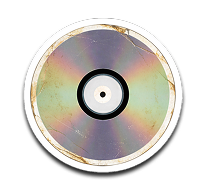
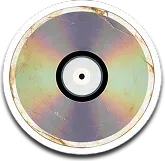
Update mobile image assets and adjust styles for improved responsiveness. Modified dimensions for mobile navigation items and enhanced CSS for MusicPage and VideosPage, including transitions and layout adjustments. Added new background image for VideosPage and refined mobile navigation overlay.

diff --git a/src/pages/MusicPage.css b/src/pages/MusicPage.css
@@ -14,6 +14,7 @@
   width: 100%;
   height: auto;
   display: block;
+  transition: width 0.4s ease, transform 0.4s ease;
 }
 
 /* Content overlays on the top portion of the image */
@@ -27,10 +28,12 @@
   align-items: center;
   padding-top: 10%;
   gap: 1vw;
+  transition: padding-top 0.4s ease, gap 0.4s ease;
 }
 
 .music-hero-artwork {
   width: var(--music-artwork-width);
+  transition: width 0.4s ease;
 }
 
 .music-hero-artwork img {
@@ -41,7 +44,7 @@
 
 .music-hero-title {
   font-family: 'Roboto Mono', monospace;
-  font-size: max(0.6rem, 1.2vw);
+  font-size: max(0.75rem, 1.4vw);
   font-weight: 700;
   letter-spacing: 0.15em;
   color: #fff;
@@ -52,7 +55,7 @@
 
 .music-hero-description {
   font-family: 'Roboto Mono', monospace;
-  font-size: max(0.5rem, 0.9vw);
+  font-size: max(0.65rem, 1.1vw);
   font-weight: 500;
   letter-spacing: 0.12em;
   line-height: 1.6;
@@ -66,7 +69,7 @@
   font-family: 'Roboto Mono', monospace;
   display: inline-block;
   padding: 0.5vw 2.8vw;
-  font-size: max(0.5rem, 0.95vw);
+  font-size: max(0.65rem, 1.1vw);
   font-weight: 700;
   letter-spacing: 0.1em;
   text-decoration: none;
@@ -103,6 +106,7 @@
   align-items: center;
   gap: 1vw;
   width: var(--music-artwork-width);
+  transition: width 0.4s ease, gap 0.4s ease;
 }
 
 .single-artwork img {
@@ -113,7 +117,7 @@
 
 .single-title {
   font-family: 'Roboto Mono', monospace;
-  font-size: max(0.6rem, 1.2vw);
+  font-size: max(0.75rem, 1.4vw);
   font-weight: 700;
   letter-spacing: 0.15em;
   color: #fff;
@@ -124,7 +128,7 @@
 
 .single-description {
   font-family: 'Roboto Mono', monospace;
-  font-size: max(0.5rem, 0.9vw);
+  font-size: max(0.65rem, 1.1vw);
   font-weight: 500;
   letter-spacing: 0.12em;
   line-height: 1.6;
@@ -137,7 +141,7 @@
   font-family: 'Roboto Mono', monospace;
   display: inline-block;
   padding: 0.5vw 2.8vw;
-  font-size: max(0.5rem, 0.95vw);
+  font-size: max(0.65rem, 1.1vw);
   font-weight: 700;
   letter-spacing: 0.1em;
   text-decoration: none;
@@ -172,8 +176,21 @@
 /* ── Responsive ── */
 
 @media (max-width: 768px) {
+  :root {
+    --music-artwork-width: 60vw;
+  }
+
+  .music-hero-bg {
+    width: 270%;
+    max-width: none;
+    position: relative;
+    left: 50%;
+    transform: translateX(-42%);
+  }
+
   .music-hero-content {
-    padding-top: 10%;
+    padding-top: 22%;
+    gap: 2.5vw;
   }
 
   .music-hero-description {

diff --git a/src/components/NavMenu.jsx b/src/components/NavMenu.jsx
@@ -3,11 +3,11 @@ import { Link, useLocation } from 'react-router-dom'
 import './NavMenu.css'
 
 const MOBILE_MENU_ITEMS = [
-  { label: 'Music', link: '/music', image: '/mobile/mobile_disc 1.webp', width: 209, height: 196 },
-  { label: 'Merch', link: '/merch', image: '/mobile/mobile_computer 1.webp', width: 375, height: 251 },
-  { label: 'Tour', link: '/tour', image: '/mobile/mobile_globe 1.webp', width: 208, height: 204 },
-  { label: 'Videos', link: '/videos', image: '/mobile/mobile_vhs 1.webp', width: 249, height: 178 },
-  { label: 'About', link: '/about', image: '/mobile/mobile_phone 1.webp', width: 361, height: 214 },
+  { label: 'Music', link: '/music', image: '/mobile/mobile_disc 1.webp', width: 165, height: 161 },
+  { label: 'Merch', link: '/merch', image: '/mobile/mobile_computer 1.webp', width: 213, height: 214 },
+  { label: 'Tour', link: '/tour', image: '/mobile/mobile_globe 1.webp', width: 141, height: 182 },
+  { label: 'Videos', link: '/videos', image: '/mobile/mobile_vhs 1.webp', width: 203, height: 116 },
+  { label: 'About', link: '/about', image: '/mobile/mobile_phone 1.webp', width: 94, height: 175 },
 ]
 
 function NavMenu() {
@@ -31,7 +31,7 @@ function NavMenu() {
 
   return (
     <nav className={`nav-menu${pathname === '/' ? ' nav-menu--home' : ''}`}>
-      <Link to="/" className="nav-logo">
+      <Link to="/" className="nav-logo" style={isOpen ? { visibility: 'hidden' } : undefined}>
         <img src="/Adam_Klobi_Logo.svg" alt="Adam Klobi" width={557} height={118} />
       </Link>
       <ul className="nav-links">
@@ -56,6 +56,9 @@ function NavMenu() {
 
       {isOpen && (
         <div className="mobile-nav-overlay">
+          <div className="mobile-nav-logo">
+            <img src="/Adam_Klobi_Logo.svg" alt="Adam Klobi" width={557} height={118} />
+          </div>
           <div className="mobile-nav-items">
             {MOBILE_MENU_ITEMS.map((item) => (
               <Link

diff --git a/src/App.jsx b/src/App.jsx
@@ -3,11 +3,11 @@ import InteractiveImage from './components/InteractiveImage'
 const OBJECT_POSITION = [50, 35]
 
 const MOBILE_ITEMS = [
-  { image: '/mobile/mobile_disc 1.webp', label: 'Music', link: '/music', width: 209, height: 196 },
-  { image: '/mobile/mobile_computer 1.webp', label: 'Merch', link: '/merch', width: 375, height: 251 },
-  { image: '/mobile/mobile_globe 1.webp', label: 'Tour', link: '/tour', width: 208, height: 204 },
-  { image: '/mobile/mobile_vhs 1.webp', label: 'Videos', link: '/videos', width: 249, height: 178 },
-  { image: '/mobile/mobile_phone 1.webp', label: 'About', link: '/about', width: 361, height: 214 },
+  { image: '/mobile/mobile_disc 1.webp', label: 'Music', link: '/music', width: 165, height: 161 },
+  { image: '/mobile/mobile_computer 1.webp', label: 'Merch', link: '/merch', width: 213, height: 214 },
+  { image: '/mobile/mobile_globe 1.webp', label: 'Tour', link: '/tour', width: 141, height: 182 },
+  { image: '/mobile/mobile_vhs 1.webp', label: 'Videos', link: '/videos', width: 203, height: 116 },
+  { image: '/mobile/mobile_phone 1.webp', label: 'About', link: '/about', width: 94, height: 175 },
 ]
 
 const HOTSPOTS = [

diff --git a/src/components/NavMenu.css b/src/components/NavMenu.css
@@ -10,18 +10,6 @@
   flex-wrap: wrap;
 }
 
-.nav-menu::before {
-  content: '';
-  position: absolute;
-  top: 0;
-  left: 0;
-  width: 100%;
-  height: 200%;
-  background: linear-gradient(to bottom, rgba(0, 0, 0, 0.25), transparent);
-  pointer-events: none;
-  z-index: -1;
-}
-
 .nav-menu a,
 .nav-menu ul,
 .nav-menu button {
@@ -110,8 +98,9 @@
   z-index: 9999;
   background: rgba(0, 0, 0, 0.92);
   display: flex;
+  flex-direction: column;
   align-items: center;
-  justify-content: center;
+  overflow-y: auto;
   pointer-events: auto;
   animation: navOverlayFadeIn 0.4s ease forwards;
 }
@@ -121,12 +110,25 @@
   to { opacity: 1; }
 }
 
+.mobile-nav-logo {
+  text-align: center;
+  padding: 2rem 1.5rem 0;
+  opacity: 0;
+  animation: navItemsFadeIn 0.5s ease 0.15s forwards;
+}
+
+.mobile-nav-logo img {
+  width: 80%;
+  max-width: 400px;
+  height: auto;
+}
+
 .mobile-nav-items {
   display: flex;
   flex-direction: column;
   align-items: center;
   gap: 1.2rem;
-  padding: 1rem;
+  padding: 1.5rem 1rem 2rem;
   opacity: 0;
   animation: navItemsFadeIn 0.5s ease 0.15s forwards;
 }

diff --git a/src/pages/VideosPage.css b/src/pages/VideosPage.css
@@ -1,11 +1,25 @@
 .videos-page {
+  position: relative;
+  overflow: hidden;
   min-height: 100vh;
-  background: url('/ak_videos_bg.webp') center top / cover no-repeat;
   background-color: #111;
   padding: 12rem 2rem 4rem;
 }
 
+.videos-page::before {
+  content: '';
+  position: fixed;
+  height: 1715px;
+  left: -921px;
+  right: -695px;
+  top: calc(50% - 1715px/2 - 253px);
+  background: url('/ak_videos_bg.webp') center / cover no-repeat;
+  z-index: 0;
+}
+
 .videos-container {
+  position: relative;
+  z-index: 1;
   max-width: 720px;
   margin: 0 auto;
   display: flex;

diff --git a/src/components/InteractiveImage.css b/src/components/InteractiveImage.css
@@ -191,6 +191,7 @@
 @media (max-width: 768px) {
   .interactive-image-container {
     height: auto;
+    overflow: visible;
   }
 
   /* Hide desktop canvas-based hotspots */
@@ -270,7 +271,8 @@
   .mobile-menu-item img {
     width: 42vw;
     max-width: 200px;
-    height: auto;
+    height: 28vw;
+    max-height: 130px;
     object-fit: contain;
   }
 
